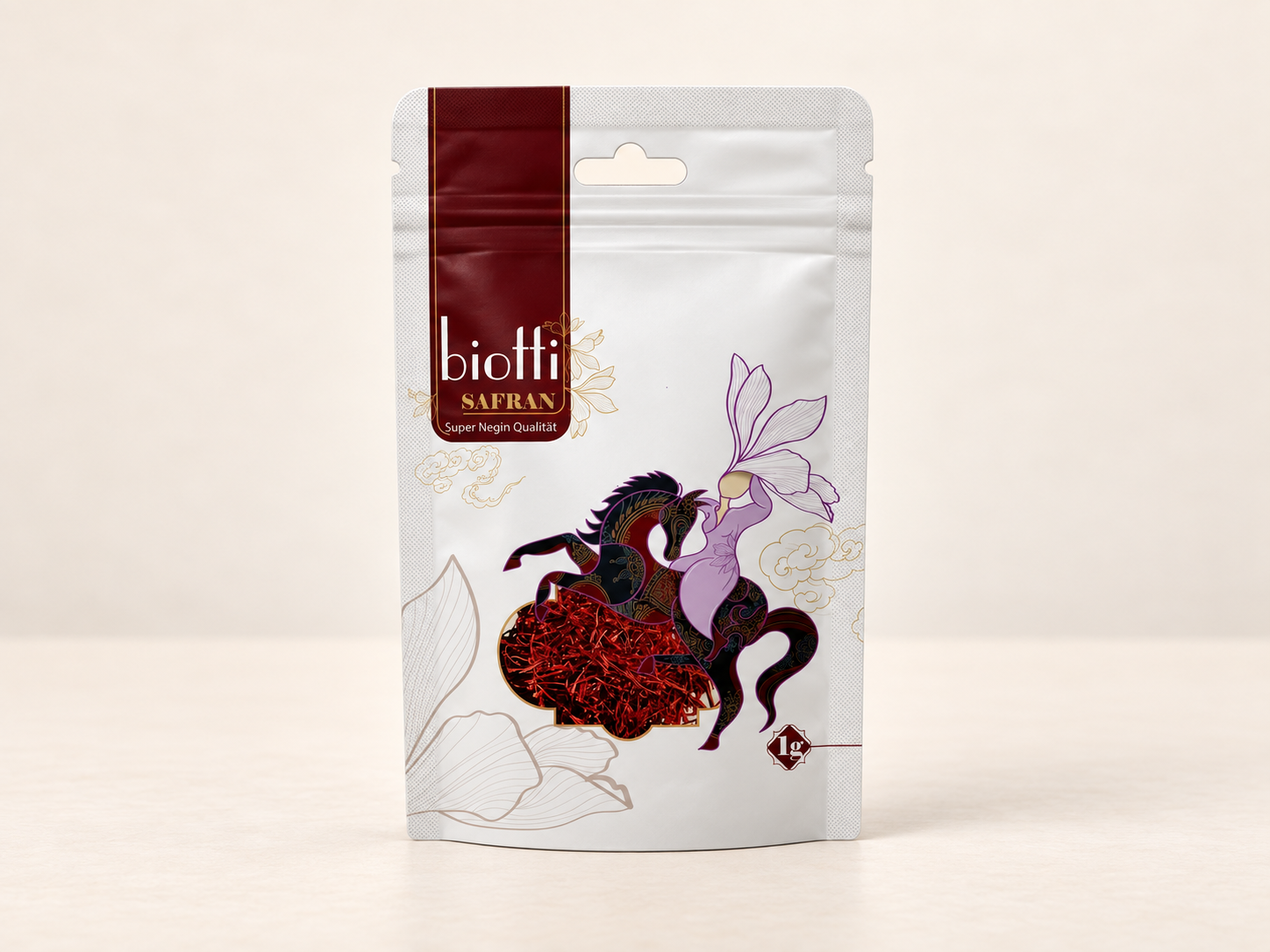
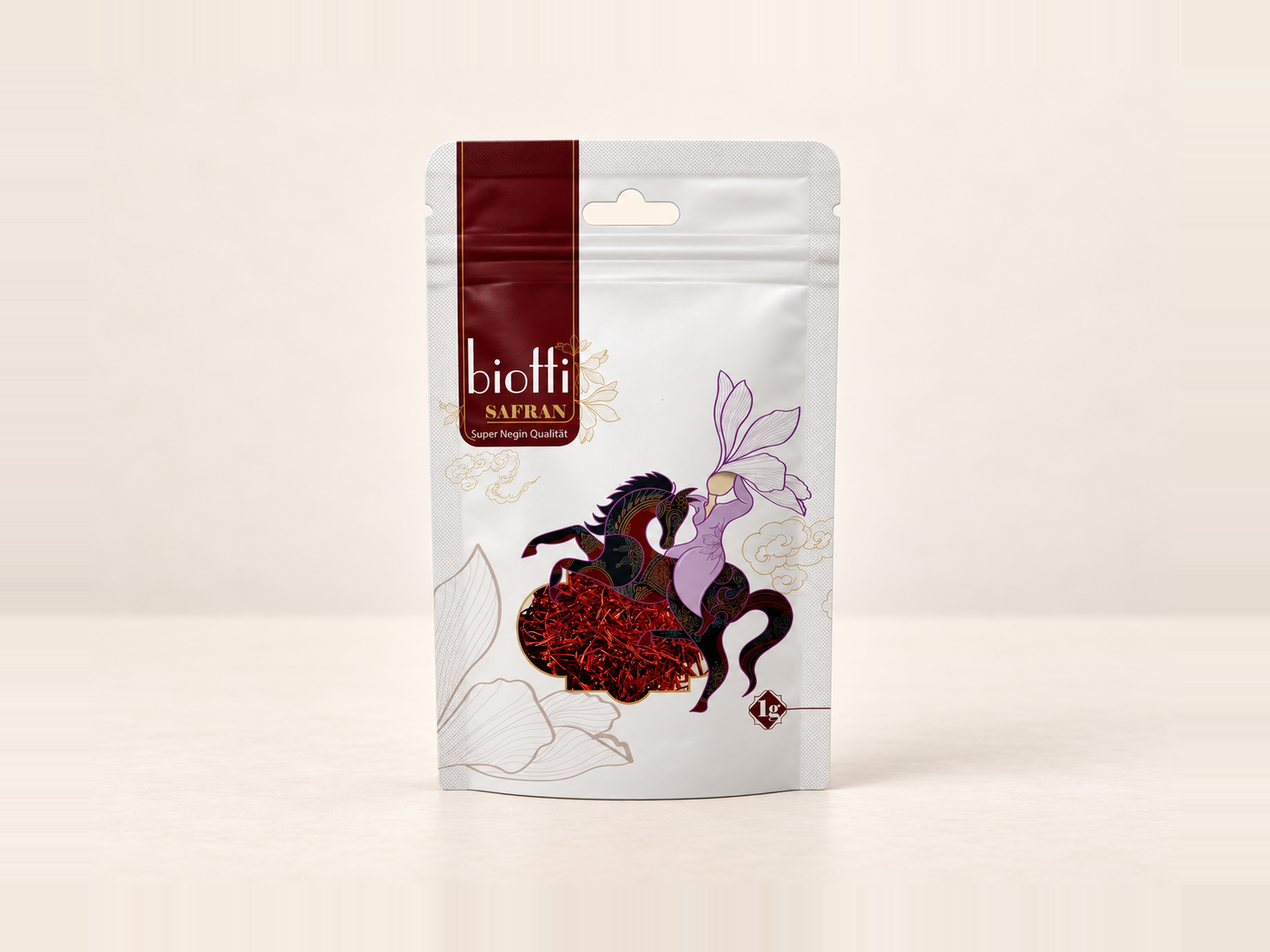
Reframe the saffron, drop the letterbox, swap the cart control for a note
The saffron front was composed at 80% of frame height against 68–69% for the
other three, so it read larger than the set. Rescaled to 69.2% and the studio
ground extended outward by replicating the edge rows — the backdrop is a
gradient, so a stretched edge is indistinguishable from more of it, where a
flood fill of one sampled colour would band against the vignette. The original
is in the previous commit.

That re-framing is what lets the frame go back to `cover`. `contain` had left
the 4:3 source letterboxed inside a wider frame, and those two vertical seams
read as another image showing at the sides. Cover crops ~6% off top and
bottom, which is now margin on every slide rather than margin on three and
product on one.

The price and the add control come out. In their place, one line top-right:
the smallest quantity the product is sold in — the thing a visitor needs
before the product page, without putting a cart on a slide that turns every
six seconds.

The pattern is now eleven stalks at arbitrary angles and scales in a large
tile, generated once from a fixed seed, at 2.2%. An even grid of an organic
shape reads as wallpaper; a scatter has no focus to find.

Changed region(s): [[0.3108, 0.0912, 0.8702, 0.9116]]

diff --git a/src/components/ui/GrainPattern.tsx b/src/components/ui/GrainPattern.tsx
@@ -1,37 +1,73 @@
+const STALK =
+  "M171.044 0C171.363 2.33899 171.098 4.563 170.927 6.91813C169.855 24.8062 171.965 35.1828 180.779 50.7146C181.516 46.2484 185.098 17.7292 186.516 15.5851L187.354 15.4824C189.024 18.3697 196.889 61.3654 198.264 68.0236C200.149 63.0528 200.741 60.6957 202.217 55.6879L202.65 55.5511C203.052 58.0265 199.749 83.8729 199.189 87.2504C201.777 86.4731 205.33 85.2916 207.909 84.8132C207.87 82.4405 207.581 79.9274 208.551 77.8212L209.126 77.3555C210.257 78.6195 209.863 83.8474 209.796 85.6025C209.634 89.842 209.014 93.4774 208 97.5461C207.039 101.398 204.228 107.485 204.374 111.191L204.304 110.475L204.764 111.302C205.801 109.657 207.491 106.258 208.801 105.327L208.929 105.548C207.502 108.763 204.976 125.245 204.044 129.735L210.955 129.766C211.185 128.923 211.599 127.209 211.94 126.502L212.462 126.523C213.213 125.642 212.749 125.906 213.899 125.709C211.3 143.025 205.67 151.306 197.133 165.637C206.871 167.294 208.606 166.507 214.252 158.614C211.887 173.469 208.304 184.362 201.676 197.979C199.17 203.125 196.073 208.157 193.693 213.377C202.494 210.729 202.517 208.766 206.484 201.002L206.984 201.78L208.312 199.543C208.908 200.713 208.006 200.671 208.685 202.326L208.592 202.722C206.696 210.567 203.244 219.259 200.765 226.999C199.303 231.566 195.38 239.453 195.225 243.722L195.784 244.239C198.289 243.309 202.292 234.4 204.527 231.49C200.599 243.426 196.855 255.294 192.397 267.063C191.549 269.303 190.741 271.839 190.17 274.158C194.385 271.842 202.462 267.543 206.947 266.179C209.413 262.591 210.458 258.153 212.815 254.843C212.478 259.98 203.328 281.449 200.899 287.406C198.408 293.514 191.058 304.528 187.333 310.441C192.404 310.502 197.476 310.526 202.548 310.513L204.049 309.642C200.672 329.284 195.012 340.75 186.284 358.105C190.738 357.384 195.893 356.991 200.587 356.291C201.768 354.773 203.677 350.972 205.656 351.053C205.49 355.208 193.84 374.105 191.51 378.877C187.474 387.143 180.417 398.716 177.406 407.344L180.23 413.385C176.64 432.188 163.553 463.221 151.922 478.809C148.548 483.556 140.29 487.748 137.926 493.009C123.318 525.511 108.577 559.283 95.1129 592.171C107.122 588.475 118.07 582.689 131.277 580.71C138.829 579.581 146.061 578.456 153.759 577.708C161.087 576.998 170.235 577.659 177.176 575.692C182.393 573.914 184.341 567.918 187.991 564.436C193.614 559.073 198.509 553.62 202.576 547.004C205.751 541.834 210.754 536.418 212.868 530.78C215.012 525.064 215.632 517.988 217.024 512.013C218.489 505.098 218.576 498.129 221.183 491.444C224.907 480.402 232.331 470.965 236.769 461.024C236.059 466.173 235.977 473.441 235.759 478.69C235.423 486.816 234.996 495.017 235.706 503.119C238.441 489.338 248.767 462.715 257.788 452.4C259.648 458.252 259.829 462.613 262.44 468.961C262.642 468.005 262.88 467.052 263.159 466.111C267.314 451.595 273.096 436.919 277.957 422.567C278.249 421.7 278.865 420.756 279.682 420.304L280.376 420.739C281.599 423.684 281.291 428.143 281.23 431.4C281.115 437.826 280.992 443.538 282.026 449.936C291.926 418.078 301.398 386.089 310.44 353.978C311.93 348.5 318.204 320.456 320.336 318.493L321.009 318.739C325.443 326.941 324.569 343.607 325.756 353.08C325.92 354.387 325.842 355.376 326.683 356.044C327.796 354.332 329.471 346.072 330.321 343.238L344.762 294.862C344.68 299.027 344.023 304.72 343.674 308.963C343.054 316.42 342.541 323.887 342.143 331.359C345.284 325.641 348.503 314.19 350.141 307.886C352.42 299.177 354.559 290.43 356.555 281.65C360.053 266.14 361.203 257.416 368.249 242.62C367.419 256.423 367.477 270.444 366.401 284.275C365.958 289.988 365.982 295.976 365.104 301.635C377.368 285.086 385.515 261.995 392.992 242.796C395.862 235.417 399.085 228.252 402.091 220.935C402.978 241.063 399.015 262.613 396.203 282.544C394.922 291.598 393.021 298.422 392.614 307.926C403.253 305.818 410.044 296.934 416.737 288.583L418.301 289.743C411.214 304.474 402.152 319.682 393.353 333.425C390.701 337.569 388.258 342.131 385.589 346.184C399.455 337.487 407.724 329.486 420.235 320.776C412.487 329.561 409.905 333.79 403.269 342.726L383.601 368.76C379.134 374.664 374.543 380.516 370.08 386.479C364.985 393.284 359.478 398.745 355.327 406.49C360.878 402.219 366.262 398.815 372.125 395.021C375.636 392.75 379.598 389.21 383.166 387.243C377.906 392.972 373.045 399.168 367.793 404.765C354.67 418.748 342.159 433.26 329.053 447.246C326.047 450.454 322.77 454.691 319.551 457.529C319.592 458.909 319.276 460.239 320.471 461.139C323.813 459.475 326.733 457.32 329.923 455.451C335.495 452.191 340.816 448.827 346.261 445.386L346.483 446.093C348.059 445.485 347.37 445.407 348.638 445.916C347.764 446.774 347.378 447.029 346.725 448.064L347.505 448.244C340.788 456.49 329.763 465.261 322.023 473.942C327.18 472.678 332.247 472.025 337.162 470.834C326.458 480.722 319.005 485.564 306.186 492.701C300.241 496.006 292.497 499.636 287.052 503.402C296.57 501.332 303.468 498.819 312.542 496.191C315.507 494.98 320.906 492.426 323.649 491.555C321.9 493.325 320.204 495.107 318.303 496.713C304.412 509.25 292.037 515.845 275.957 525.318C270.045 528.796 263.43 531.474 258.047 535.765C268.148 533.749 277.978 531.42 287.656 527.913C289.241 527.339 290.936 526.755 292.554 526.283C278.331 535.432 265.889 543.892 250.397 550.988C243.766 554.026 229.37 557.784 224.279 561.18C212.913 568.756 208.815 574.768 194.461 580.082C178.644 585.938 165.069 586.007 148.551 587.379C131.736 589.268 99.8854 594.725 89.4326 609.266C84.5222 616.099 77.5448 634.751 73.4885 643.411C65.1783 661.155 57.5554 679.298 48.9442 696.943C45.7148 703.558 43.0977 711.032 39.7783 717.627L40.2345 717.29C44.2486 714.264 47.3187 710.088 50.9336 706.922C56.7149 701.863 63.3092 696.175 69.4338 691.584C99.1479 669.327 132.653 654.77 168.627 646.076C175.507 644.413 184.932 642.097 191.85 641.641C197.302 640.586 202.506 639.588 207.996 638.771C204.45 640.685 197.699 642.816 193.693 644.142C190.878 645.793 186.3 647.296 183.192 648.573C175.312 651.809 167.344 654.881 159.657 658.572C130.515 672.637 105.69 691.847 81.1754 712.724C74.3791 718.514 65.3897 725.59 59.4388 732.094C67.3881 731.474 76.5364 729.782 84.4467 728.407L125.271 720.904C132.102 719.639 143.977 717.323 150.571 716.904C151.673 717.648 151.765 717.081 153.101 718.12C143.645 721.22 134.159 725.06 124.956 728.045C101.153 735.761 77.1125 743.966 56.7884 758.967C53.5323 761.369 49.685 763.603 46.6412 766.342C40.4152 771.947 34.2237 777.614 27.932 783.145C24.4156 786.217 21.3131 789.309 17.2699 791.695C14.0331 793.605 12.55 792.964 9.26228 793.038C-0.848007 793.26 0.84901 785.486 0.658079 777.589C0.475771 770.411 0.329186 763.233 0.219144 756.055C-0.410722 697.879 0.317282 639.699 2.40192 581.556C4.04762 541.025 6.87421 500.314 8.77859 459.775C9.16168 451.624 9.70246 393.432 13.1638 390.844L13.9612 391.062C14.7225 392.113 15.2719 398.959 15.7379 401C18.1945 411.771 19.4448 421.343 22.7888 431.888C21.4794 406.4 22.8709 380.276 22.5474 354.728C22.5034 351.262 22.395 347.904 22.4468 344.428C33.3458 388.397 40.4899 433.215 43.8018 478.394C45.6808 508.81 46.286 539.297 45.6155 569.766C45.2114 591.025 44.5019 615.488 42.5487 636.64C45.1983 632.747 48.2548 627.815 51.2079 624.259C58.2715 615.75 65.0481 608.568 70.785 599.054C75.8798 590.828 78.1579 581.4 82.1099 572.67C89.3521 556.667 97.0957 540.841 102.672 524.148C105.741 514.962 108.012 505.513 111.083 496.351C114.771 485.342 119.518 475.257 121.798 463.791C120.862 461.184 119.734 458.658 118.325 456.272C109.575 441.444 108.478 424.493 107.742 407.693L108.43 409.697C108.846 408.305 108.437 408.675 109.342 408.087C109.466 408.905 109.382 408.802 109.711 409.537L109.551 408.009L110.043 408.527L110.045 407.862C112.193 418.275 112.113 420.969 120.758 427.33C119.235 416.296 114.689 405.611 114.093 394.294C113.668 386.248 113.087 378.154 112.358 370.132L112.922 370.244L112.919 369.19L113.636 369.179L114.116 370.339L114.635 369.363C117.435 377.89 120.291 383.903 126.592 390.331C125.155 380.824 122.177 373.326 120.327 364.199C118.217 353.794 119.94 340.284 117.517 329.435C116.963 326.951 116.486 321.432 116.454 318.89L117.104 319.016L117.389 317.698C118.036 318.393 118.012 318.344 118.376 319.218L119.088 318.877C120.702 321.656 123.943 337.448 126.522 341.062C126.904 341.596 127.032 341.402 127.881 341.392C128.688 339.634 125.204 327.096 124.427 324.913C118.819 309.144 115.052 295.771 117.251 278.853C117.48 277.099 115.591 268.015 115.14 265.185C119.87 277.05 116.268 278.908 127.505 286.599C127.393 274.262 124.442 265.336 122.831 253.386C121.525 243.704 122.975 233.039 122.367 223.1L122.888 223.343L122.877 222.81L123.876 222.721L123.963 223.182L124.347 223.037C127.824 232.771 128.605 235.114 135.772 243.375C133.655 235.356 130.624 223.353 131.832 215.193C132.174 212.881 134.065 209.84 135.307 207.808C135.323 205.854 135.165 203.788 134.899 201.853C133.312 190.309 132.797 178.7 131.724 167.106C131.323 162.781 131.153 158.772 131.538 154.435C132.176 157.44 132.372 161.196 132.927 164.323C135.755 180.257 142.511 187.672 155.004 196.679C153.075 189.142 148.057 180.534 144.802 172.913C137.535 155.898 137.972 144.056 136.312 126.453L136.762 126.363L136.906 125.862L138.296 125.244L137.791 125.717L137.782 126.336L138.23 126.267L138.457 125.442C142.773 139.073 148.118 141.596 157.176 151.323C157.617 147.946 158.24 142.837 157.783 139.482C156.025 126.567 151.328 113.536 149.521 100.628C148.072 90.2756 147.822 80.2941 146.108 69.8974C147.241 70.2678 148.048 70.0752 148.743 69.1669C151.592 77.1699 154.886 81.1811 161.753 85.9364C163.612 76.2772 164.858 67.6109 164.961 57.7395C165.108 51.1995 164.419 44.6539 164.783 38.1172C165.364 27.6786 167.742 17.4229 169.575 7.1664C170.023 4.71498 170.425 2.41763 171.044 0Z";
+
 type GrainPatternProps = { className?: string };
 
 /**
- * The wheat stalk, tiled as a surface pattern.
+ * The wheat stalk, scattered as a surface texture.
  *
- * An SVG `<pattern>` rather than a repeated element: the tile is defined once
- * and the browser fills the area with it, so the density is a property of the
- * pattern's own box and does not change with the panel's size.
+ * An SVG `<pattern>` rather than repeated elements: the tile is defined once
+ * and the browser fills the area with it, so density is a property of the
+ * tile and does not change with the panel's size.
  *
- * Every other column is offset by half a tile and the stalks alternate scale,
- * because a strict grid of an organic shape reads as wallpaper. `currentColor`
- * so whatever places it sets the tone.
+ * The scatter inside the tile is deliberately irregular — eleven stalks at
+ * arbitrary angles, scales and positions, generated once from a fixed seed and
+ * written out here. An even grid of an organic shape reads as wallpaper; this
+ * reads as chaff. The tile is large relative to the stalks, so its own edges
+ * are hard to find in the repeat.
  *
- * Decorative: `aria-hidden`, and it carries no title.
+ * `currentColor`, so whatever places it sets the tone. Decorative:
+ * `aria-hidden`, and it carries no title.
  */
 export default function GrainPattern({ className }: GrainPatternProps) {
   return (
     <svg className={className} aria-hidden="true" focusable="false">
       <defs>
-        <pattern
-          id="grain-tile"
-          width="180"
-          height="260"
-          patternUnits="userSpaceOnUse"
-          patternTransform="rotate(-8)"
-        >
+        <pattern id="grain-tile" width="620" height="760" patternUnits="userSpaceOnUse">
           <g fill="currentColor">
             <path
-              d="M171.044 0C171.363 2.33899 171.098 4.563 170.927 6.91813C169.855 24.8062 171.965 35.1828 180.779 50.7146C181.516 46.2484 185.098 17.7292 186.516 15.5851L187.354 15.4824C189.024 18.3697 196.889 61.3654 198.264 68.0236C200.149 63.0528 200.741 60.6957 202.217 55.6879L202.65 55.5511C203.052 58.0265 199.749 83.8729 199.189 87.2504C201.777 86.4731 205.33 85.2916 207.909 84.8132C207.87 82.4405 207.581 79.9274 208.551 77.8212L209.126 77.3555C210.257 78.6195 209.863 83.8474 209.796 85.6025C209.634 89.842 209.014 93.4774 208 97.5461C207.039 101.398 204.228 107.485 204.374 111.191L204.304 110.475L204.764 111.302C205.801 109.657 207.491 106.258 208.801 105.327L208.929 105.548C207.502 108.763 204.976 125.245 204.044 129.735L210.955 129.766C211.185 128.923 211.599 127.209 211.94 126.502L212.462 126.523C213.213 125.642 212.749 125.906 213.899 125.709C211.3 143.025 205.67 151.306 197.133 165.637C206.871 167.294 208.606 166.507 214.252 158.614C211.887 173.469 208.304 184.362 201.676 197.979C199.17 203.125 196.073 208.157 193.693 213.377C202.494 210.729 202.517 208.766 206.484 201.002L206.984 201.78L208.312 199.543C208.908 200.713 208.006 200.671 208.685 202.326L208.592 202.722C206.696 210.567 203.244 219.259 200.765 226.999C199.303 231.566 195.38 239.453 195.225 243.722L195.784 244.239C198.289 243.309 202.292 234.4 204.527 231.49C200.599 243.426 196.855 255.294 192.397 267.063C191.549 269.303 190.741 271.839 190.17 274.158C194.385 271.842 202.462 267.543 206.947 266.179C209.413 262.591 210.458 258.153 212.815 254.843C212.478 259.98 203.328 281.449 200.899 287.406C198.408 293.514 191.058 304.528 187.333 310.441C192.404 310.502 197.476 310.526 202.548 310.513L204.049 309.642C200.672 329.284 195.012 340.75 186.284 358.105C190.738 357.384 195.893 356.991 200.587 356.291C201.768 354.773 203.677 350.972 205.656 351.053C205.49 355.208 193.84 374.105 191.51 378.877C187.474 387.143 180.417 398.716 177.406 407.344L180.23 413.385C176.64 432.188 163.553 463.221 151.922 478.809C148.548 483.556 140.29 487.748 137.926 493.009C123.318 525.511 108.577 559.283 95.1129 592.171C107.122 588.475 118.07 582.689 131.277 580.71C138.829 579.581 146.061 578.456 153.759 577.708C161.087 576.998 170.235 577.659 177.176 575.692C182.393 573.914 184.341 567.918 187.991 564.436C193.614 559.073 198.509 553.62 202.576 547.004C205.751 541.834 210.754 536.418 212.868 530.78C215.012 525.064 215.632 517.988 217.024 512.013C218.489 505.098 218.576 498.129 221.183 491.444C224.907 480.402 232.331 470.965 236.769 461.024C236.059 466.173 235.977 473.441 235.759 478.69C235.423 486.816 234.996 495.017 235.706 503.119C238.441 489.338 248.767 462.715 257.788 452.4C259.648 458.252 259.829 462.613 262.44 468.961C262.642 468.005 262.88 467.052 263.159 466.111C267.314 451.595 273.096 436.919 277.957 422.567C278.249 421.7 278.865 420.756 279.682 420.304L280.376 420.739C281.599 423.684 281.291 428.143 281.23 431.4C281.115 437.826 280.992 443.538 282.026 449.936C291.926 418.078 301.398 386.089 310.44 353.978C311.93 348.5 318.204 320.456 320.336 318.493L321.009 318.739C325.443 326.941 324.569 343.607 325.756 353.08C325.92 354.387 325.842 355.376 326.683 356.044C327.796 354.332 329.471 346.072 330.321 343.238L344.762 294.862C344.68 299.027 344.023 304.72 343.674 308.963C343.054 316.42 342.541 323.887 342.143 331.359C345.284 325.641 348.503 314.19 350.141 307.886C352.42 299.177 354.559 290.43 356.555 281.65C360.053 266.14 361.203 257.416 368.249 242.62C367.419 256.423 367.477 270.444 366.401 284.275C365.958 289.988 365.982 295.976 365.104 301.635C377.368 285.086 385.515 261.995 392.992 242.796C395.862 235.417 399.085 228.252 402.091 220.935C402.978 241.063 399.015 262.613 396.203 282.544C394.922 291.598 393.021 298.422 392.614 307.926C403.253 305.818 410.044 296.934 416.737 288.583L418.301 289.743C411.214 304.474 402.152 319.682 393.353 333.425C390.701 337.569 388.258 342.131 385.589 346.184C399.455 337.487 407.724 329.486 420.235 320.776C412.487 329.561 409.905 333.79 403.269 342.726L383.601 368.76C379.134 374.664 374.543 380.516 370.08 386.479C364.985 393.284 359.478 398.745 355.327 406.49C360.878 402.219 366.262 398.815 372.125 395.021C375.636 392.75 379.598 389.21 383.166 387.243C377.906 392.972 373.045 399.168 367.793 404.765C354.67 418.748 342.159 433.26 329.053 447.246C326.047 450.454 322.77 454.691 319.551 457.529C319.592 458.909 319.276 460.239 320.471 461.139C323.813 459.475 326.733 457.32 329.923 455.451C335.495 452.191 340.816 448.827 346.261 445.386L346.483 446.093C348.059 445.485 347.37 445.407 348.638 445.916C347.764 446.774 347.378 447.029 346.725 448.064L347.505 448.244C340.788 456.49 329.763 465.261 322.023 473.942C327.18 472.678 332.247 472.025 337.162 470.834C326.458 480.722 319.005 485.564 306.186 492.701C300.241 496.006 292.497 499.636 287.052 503.402C296.57 501.332 303.468 498.819 312.542 496.191C315.507 494.98 320.906 492.426 323.649 491.555C321.9 493.325 320.204 495.107 318.303 496.713C304.412 509.25 292.037 515.845 275.957 525.318C270.045 528.796 263.43 531.474 258.047 535.765C268.148 533.749 277.978 531.42 287.656 527.913C289.241 527.339 290.936 526.755 292.554 526.283C278.331 535.432 265.889 543.892 250.397 550.988C243.766 554.026 229.37 557.784 224.279 561.18C212.913 568.756 208.815 574.768 194.461 580.082C178.644 585.938 165.069 586.007 148.551 587.379C131.736 589.268 99.8854 594.725 89.4326 609.266C84.5222 616.099 77.5448 634.751 73.4885 643.411C65.1783 661.155 57.5554 679.298 48.9442 696.943C45.7148 703.558 43.0977 711.032 39.7783 717.627L40.2345 717.29C44.2486 714.264 47.3187 710.088 50.9336 706.922C56.7149 701.863 63.3092 696.175 69.4338 691.584C99.1479 669.327 132.653 654.77 168.627 646.076C175.507 644.413 184.932 642.097 191.85 641.641C197.302 640.586 202.506 639.588 207.996 638.771C204.45 640.685 197.699 642.816 193.693 644.142C190.878 645.793 186.3 647.296 183.192 648.573C175.312 651.809 167.344 654.881 159.657 658.572C130.515 672.637 105.69 691.847 81.1754 712.724C74.3791 718.514 65.3897 725.59 59.4388 732.094C67.3881 731.474 76.5364 729.782 84.4467 728.407L125.271 720.904C132.102 719.639 143.977 717.323 150.571 716.904C151.673 717.648 151.765 717.081 153.101 718.12C143.645 721.22 134.159 725.06 124.956 728.045C101.153 735.761 77.1125 743.966 56.7884 758.967C53.5323 761.369 49.685 763.603 46.6412 766.342C40.4152 771.947 34.2237 777.614 27.932 783.145C24.4156 786.217 21.3131 789.309 17.2699 791.695C14.0331 793.605 12.55 792.964 9.26228 793.038C-0.848007 793.26 0.84901 785.486 0.658079 777.589C0.475771 770.411 0.329186 763.233 0.219144 756.055C-0.410722 697.879 0.317282 639.699 2.40192 581.556C4.04762 541.025 6.87421 500.314 8.77859 459.775C9.16168 451.624 9.70246 393.432 13.1638 390.844L13.9612 391.062C14.7225 392.113 15.2719 398.959 15.7379 401C18.1945 411.771 19.4448 421.343 22.7888 431.888C21.4794 406.4 22.8709 380.276 22.5474 354.728C22.5034 351.262 22.395 347.904 22.4468 344.428C33.3458 388.397 40.4899 433.215 43.8018 478.394C45.6808 508.81 46.286 539.297 45.6155 569.766C45.2114 591.025 44.5019 615.488 42.5487 636.64C45.1983 632.747 48.2548 627.815 51.2079 624.259C58.2715 615.75 65.0481 608.568 70.785 599.054C75.8798 590.828 78.1579 581.4 82.1099 572.67C89.3521 556.667 97.0957 540.841 102.672 524.148C105.741 514.962 108.012 505.513 111.083 496.351C114.771 485.342 119.518 475.257 121.798 463.791C120.862 461.184 119.734 458.658 118.325 456.272C109.575 441.444 108.478 424.493 107.742 407.693L108.43 409.697C108.846 408.305 108.437 408.675 109.342 408.087C109.466 408.905 109.382 408.802 109.711 409.537L109.551 408.009L110.043 408.527L110.045 407.862C112.193 418.275 112.113 420.969 120.758 427.33C119.235 416.296 114.689 405.611 114.093 394.294C113.668 386.248 113.087 378.154 112.358 370.132L112.922 370.244L112.919 369.19L113.636 369.179L114.116 370.339L114.635 369.363C117.435 377.89 120.291 383.903 126.592 390.331C125.155 380.824 122.177 373.326 120.327 364.199C118.217 353.794 119.94 340.284 117.517 329.435C116.963 326.951 116.486 321.432 116.454 318.89L117.104 319.016L117.389 317.698C118.036 318.393 118.012 318.344 118.376 319.218L119.088 318.877C120.702 321.656 123.943 337.448 126.522 341.062C126.904 341.596 127.032 341.402 127.881 341.392C128.688 339.634 125.204 327.096 124.427 324.913C118.819 309.144 115.052 295.771 117.251 278.853C117.48 277.099 115.591 268.015 115.14 265.185C119.87 277.05 116.268 278.908 127.505 286.599C127.393 274.262 124.442 265.336 122.831 253.386C121.525 243.704 122.975 233.039 122.367 223.1L122.888 223.343L122.877 222.81L123.876 222.721L123.963 223.182L124.347 223.037C127.824 232.771 128.605 235.114 135.772 243.375C133.655 235.356 130.624 223.353 131.832 215.193C132.174 212.881 134.065 209.84 135.307 207.808C135.323 205.854 135.165 203.788 134.899 201.853C133.312 190.309 132.797 178.7 131.724 167.106C131.323 162.781 131.153 158.772 131.538 154.435C132.176 157.44 132.372 161.196 132.927 164.323C135.755 180.257 142.511 187.672 155.004 196.679C153.075 189.142 148.057 180.534 144.802 172.913C137.535 155.898 137.972 144.056 136.312 126.453L136.762 126.363L136.906 125.862L138.296 125.244L137.791 125.717L137.782 126.336L138.23 126.267L138.457 125.442C142.773 139.073 148.118 141.596 157.176 151.323C157.617 147.946 158.24 142.837 157.783 139.482C156.025 126.567 151.328 113.536 149.521 100.628C148.072 90.2756 147.822 80.2941 146.108 69.8974C147.241 70.2678 148.048 70.0752 148.743 69.1669C151.592 77.1699 154.886 81.1811 161.753 85.9364C163.612 76.2772 164.858 67.6109 164.961 57.7395C165.108 51.1995 164.419 44.6539 164.783 38.1172C165.364 27.6786 167.742 17.4229 169.575 7.1664C170.023 4.71498 170.425 2.41763 171.044 0Z"
-              transform="translate(18 26) scale(0.18)"
+              d={STALK}
+              transform="translate(284 421) rotate(153) scale(0.107) translate(-210 -397)"
             />
             <path
-              d="M171.044 0C171.363 2.33899 171.098 4.563 170.927 6.91813C169.855 24.8062 171.965 35.1828 180.779 50.7146C181.516 46.2484 185.098 17.7292 186.516 15.5851L187.354 15.4824C189.024 18.3697 196.889 61.3654 198.264 68.0236C200.149 63.0528 200.741 60.6957 202.217 55.6879L202.65 55.5511C203.052 58.0265 199.749 83.8729 199.189 87.2504C201.777 86.4731 205.33 85.2916 207.909 84.8132C207.87 82.4405 207.581 79.9274 208.551 77.8212L209.126 77.3555C210.257 78.6195 209.863 83.8474 209.796 85.6025C209.634 89.842 209.014 93.4774 208 97.5461C207.039 101.398 204.228 107.485 204.374 111.191L204.304 110.475L204.764 111.302C205.801 109.657 207.491 106.258 208.801 105.327L208.929 105.548C207.502 108.763 204.976 125.245 204.044 129.735L210.955 129.766C211.185 128.923 211.599 127.209 211.94 126.502L212.462 126.523C213.213 125.642 212.749 125.906 213.899 125.709C211.3 143.025 205.67 151.306 197.133 165.637C206.871 167.294 208.606 166.507 214.252 158.614C211.887 173.469 208.304 184.362 201.676 197.979C199.17 203.125 196.073 208.157 193.693 213.377C202.494 210.729 202.517 208.766 206.484 201.002L206.984 201.78L208.312 199.543C208.908 200.713 208.006 200.671 208.685 202.326L208.592 202.722C206.696 210.567 203.244 219.259 200.765 226.999C199.303 231.566 195.38 239.453 195.225 243.722L195.784 244.239C198.289 243.309 202.292 234.4 204.527 231.49C200.599 243.426 196.855 255.294 192.397 267.063C191.549 269.303 190.741 271.839 190.17 274.158C194.385 271.842 202.462 267.543 206.947 266.179C209.413 262.591 210.458 258.153 212.815 254.843C212.478 259.98 203.328 281.449 200.899 287.406C198.408 293.514 191.058 304.528 187.333 310.441C192.404 310.502 197.476 310.526 202.548 310.513L204.049 309.642C200.672 329.284 195.012 340.75 186.284 358.105C190.738 357.384 195.893 356.991 200.587 356.291C201.768 354.773 203.677 350.972 205.656 351.053C205.49 355.208 193.84 374.105 191.51 378.877C187.474 387.143 180.417 398.716 177.406 407.344L180.23 413.385C176.64 432.188 163.553 463.221 151.922 478.809C148.548 483.556 140.29 487.748 137.926 493.009C123.318 525.511 108.577 559.283 95.1129 592.171C107.122 588.475 118.07 582.689 131.277 580.71C138.829 579.581 146.061 578.456 153.759 577.708C161.087 576.998 170.235 577.659 177.176 575.692C182.393 573.914 184.341 567.918 187.991 564.436C193.614 559.073 198.509 553.62 202.576 547.004C205.751 541.834 210.754 536.418 212.868 530.78C215.012 525.064 215.632 517.988 217.024 512.013C218.489 505.098 218.576 498.129 221.183 491.444C224.907 480.402 232.331 470.965 236.769 461.024C236.059 466.173 235.977 473.441 235.759 478.69C235.423 486.816 234.996 495.017 235.706 503.119C238.441 489.338 248.767 462.715 257.788 452.4C259.648 458.252 259.829 462.613 262.44 468.961C262.642 468.005 262.88 467.052 263.159 466.111C267.314 451.595 273.096 436.919 277.957 422.567C278.249 421.7 278.865 420.756 279.682 420.304L280.376 420.739C281.599 423.684 281.291 428.143 281.23 431.4C281.115 437.826 280.992 443.538 282.026 449.936C291.926 418.078 301.398 386.089 310.44 353.978C311.93 348.5 318.204 320.456 320.336 318.493L321.009 318.739C325.443 326.941 324.569 343.607 325.756 353.08C325.92 354.387 325.842 355.376 326.683 356.044C327.796 354.332 329.471 346.072 330.321 343.238L344.762 294.862C344.68 299.027 344.023 304.72 343.674 308.963C343.054 316.42 342.541 323.887 342.143 331.359C345.284 325.641 348.503 314.19 350.141 307.886C352.42 299.177 354.559 290.43 356.555 281.65C360.053 266.14 361.203 257.416 368.249 242.62C367.419 256.423 367.477 270.444 366.401 284.275C365.958 289.988 365.982 295.976 365.104 301.635C377.368 285.086 385.515 261.995 392.992 242.796C395.862 235.417 399.085 228.252 402.091 220.935C402.978 241.063 399.015 262.613 396.203 282.544C394.922 291.598 393.021 298.422 392.614 307.926C403.253 305.818 410.044 296.934 416.737 288.583L418.301 289.743C411.214 304.474 402.152 319.682 393.353 333.425C390.701 337.569 388.258 342.131 385.589 346.184C399.455 337.487 407.724 329.486 420.235 320.776C412.487 329.561 409.905 333.79 403.269 342.726L383.601 368.76C379.134 374.664 374.543 380.516 370.08 386.479C364.985 393.284 359.478 398.745 355.327 406.49C360.878 402.219 366.262 398.815 372.125 395.021C375.636 392.75 379.598 389.21 383.166 387.243C377.906 392.972 373.045 399.168 367.793 404.765C354.67 418.748 342.159 433.26 329.053 447.246C326.047 450.454 322.77 454.691 319.551 457.529C319.592 458.909 319.276 460.239 320.471 461.139C323.813 459.475 326.733 457.32 329.923 455.451C335.495 452.191 340.816 448.827 346.261 445.386L346.483 446.093C348.059 445.485 347.37 445.407 348.638 445.916C347.764 446.774 347.378 447.029 346.725 448.064L347.505 448.244C340.788 456.49 329.763 465.261 322.023 473.942C327.18 472.678 332.247 472.025 337.162 470.834C326.458 480.722 319.005 485.564 306.186 492.701C300.241 496.006 292.497 499.636 287.052 503.402C296.57 501.332 303.468 498.819 312.542 496.191C315.507 494.98 320.906 492.426 323.649 491.555C321.9 493.325 320.204 495.107 318.303 496.713C304.412 509.25 292.037 515.845 275.957 525.318C270.045 528.796 263.43 531.474 258.047 535.765C268.148 533.749 277.978 531.42 287.656 527.913C289.241 527.339 290.936 526.755 292.554 526.283C278.331 535.432 265.889 543.892 250.397 550.988C243.766 554.026 229.37 557.784 224.279 561.18C212.913 568.756 208.815 574.768 194.461 580.082C178.644 585.938 165.069 586.007 148.551 587.379C131.736 589.268 99.8854 594.725 89.4326 609.266C84.5222 616.099 77.5448 634.751 73.4885 643.411C65.1783 661.155 57.5554 679.298 48.9442 696.943C45.7148 703.558 43.0977 711.032 39.7783 717.627L40.2345 717.29C44.2486 714.264 47.3187 710.088 50.9336 706.922C56.7149 701.863 63.3092 696.175 69.4338 691.584C99.1479 669.327 132.653 654.77 168.627 646.076C175.507 644.413 184.932 642.097 191.85 641.641C197.302 640.586 202.506 639.588 207.996 638.771C204.45 640.685 197.699 642.816 193.693 644.142C190.878 645.793 186.3 647.296 183.192 648.573C175.312 651.809 167.344 654.881 159.657 658.572C130.515 672.637 105.69 691.847 81.1754 712.724C74.3791 718.514 65.3897 725.59 59.4388 732.094C67.3881 731.474 76.5364 729.782 84.4467 728.407L125.271 720.904C132.102 719.639 143.977 717.323 150.571 716.904C151.673 717.648 151.765 717.081 153.101 718.12C143.645 721.22 134.159 725.06 124.956 728.045C101.153 735.761 77.1125 743.966 56.7884 758.967C53.5323 761.369 49.685 763.603 46.6412 766.342C40.4152 771.947 34.2237 777.614 27.932 783.145C24.4156 786.217 21.3131 789.309 17.2699 791.695C14.0331 793.605 12.55 792.964 9.26228 793.038C-0.848007 793.26 0.84901 785.486 0.658079 777.589C0.475771 770.411 0.329186 763.233 0.219144 756.055C-0.410722 697.879 0.317282 639.699 2.40192 581.556C4.04762 541.025 6.87421 500.314 8.77859 459.775C9.16168 451.624 9.70246 393.432 13.1638 390.844L13.9612 391.062C14.7225 392.113 15.2719 398.959 15.7379 401C18.1945 411.771 19.4448 421.343 22.7888 431.888C21.4794 406.4 22.8709 380.276 22.5474 354.728C22.5034 351.262 22.395 347.904 22.4468 344.428C33.3458 388.397 40.4899 433.215 43.8018 478.394C45.6808 508.81 46.286 539.297 45.6155 569.766C45.2114 591.025 44.5019 615.488 42.5487 636.64C45.1983 632.747 48.2548 627.815 51.2079 624.259C58.2715 615.75 65.0481 608.568 70.785 599.054C75.8798 590.828 78.1579 581.4 82.1099 572.67C89.3521 556.667 97.0957 540.841 102.672 524.148C105.741 514.962 108.012 505.513 111.083 496.351C114.771 485.342 119.518 475.257 121.798 463.791C120.862 461.184 119.734 458.658 118.325 456.272C109.575 441.444 108.478 424.493 107.742 407.693L108.43 409.697C108.846 408.305 108.437 408.675 109.342 408.087C109.466 408.905 109.382 408.802 109.711 409.537L109.551 408.009L110.043 408.527L110.045 407.862C112.193 418.275 112.113 420.969 120.758 427.33C119.235 416.296 114.689 405.611 114.093 394.294C113.668 386.248 113.087 378.154 112.358 370.132L112.922 370.244L112.919 369.19L113.636 369.179L114.116 370.339L114.635 369.363C117.435 377.89 120.291 383.903 126.592 390.331C125.155 380.824 122.177 373.326 120.327 364.199C118.217 353.794 119.94 340.284 117.517 329.435C116.963 326.951 116.486 321.432 116.454 318.89L117.104 319.016L117.389 317.698C118.036 318.393 118.012 318.344 118.376 319.218L119.088 318.877C120.702 321.656 123.943 337.448 126.522 341.062C126.904 341.596 127.032 341.402 127.881 341.392C128.688 339.634 125.204 327.096 124.427 324.913C118.819 309.144 115.052 295.771 117.251 278.853C117.48 277.099 115.591 268.015 115.14 265.185C119.87 277.05 116.268 278.908 127.505 286.599C127.393 274.262 124.442 265.336 122.831 253.386C121.525 243.704 122.975 233.039 122.367 223.1L122.888 223.343L122.877 222.81L123.876 222.721L123.963 223.182L124.347 223.037C127.824 232.771 128.605 235.114 135.772 243.375C133.655 235.356 130.624 223.353 131.832 215.193C132.174 212.881 134.065 209.84 135.307 207.808C135.323 205.854 135.165 203.788 134.899 201.853C133.312 190.309 132.797 178.7 131.724 167.106C131.323 162.781 131.153 158.772 131.538 154.435C132.176 157.44 132.372 161.196 132.927 164.323C135.755 180.257 142.511 187.672 155.004 196.679C153.075 189.142 148.057 180.534 144.802 172.913C137.535 155.898 137.972 144.056 136.312 126.453L136.762 126.363L136.906 125.862L138.296 125.244L137.791 125.717L137.782 126.336L138.23 126.267L138.457 125.442C142.773 139.073 148.118 141.596 157.176 151.323C157.617 147.946 158.24 142.837 157.783 139.482C156.025 126.567 151.328 113.536 149.521 100.628C148.072 90.2756 147.822 80.2941 146.108 69.8974C147.241 70.2678 148.048 70.0752 148.743 69.1669C151.592 77.1699 154.886 81.1811 161.753 85.9364C163.612 76.2772 164.858 67.6109 164.961 57.7395C165.108 51.1995 164.419 44.6539 164.783 38.1172C165.364 27.6786 167.742 17.4229 169.575 7.1664C170.023 4.71498 170.425 2.41763 171.044 0Z"
-              transform="translate(112 148) scale(0.13)"
+              d={STALK}
+              transform="translate(314 439) rotate(-114) scale(0.111) translate(-210 -397)"
+            />
+            <path
+              d={STALK}
+              transform="translate(380 579) rotate(-146) scale(0.094) translate(-210 -397)"
+            />
+            <path
+              d={STALK}
+              transform="translate(89 591) rotate(70) scale(0.073) translate(-210 -397)"
+            />
+            <path
+              d={STALK}
+              transform="translate(570 696) rotate(55) scale(0.119) translate(-210 -397)"
+            />
+            <path
+              d={STALK}
+              transform="translate(125 50) rotate(10) scale(0.075) translate(-210 -397)"
+            />
+            <path
+              d={STALK}
+              transform="translate(143 205) rotate(-169) scale(0.107) translate(-210 -397)"
+            />
+            <path
+              d={STALK}
+              transform="translate(278 613) rotate(7) scale(0.121) translate(-210 -397)"
+            />
+            <path
+              d={STALK}
+              transform="translate(310 490) rotate(-15) scale(0.092) translate(-210 -397)"
+            />
+            <path
+              d={STALK}
+              transform="translate(579 717) rotate(122) scale(0.127) translate(-210 -397)"
+            />
+            <path
+              d={STALK}
+              transform="translate(210 196) rotate(-76) scale(0.076) translate(-210 -397)"
             />
           </g>
         </pattern>

diff --git a/src/sections/Hero/heroSlider.css b/src/sections/Hero/heroSlider.css
@@ -35,27 +35,37 @@
 }
 
 .hero-slider__img {
-  /* CONTAIN. The frame is wider than the source's 4:3, so `cover` had to crop
-     roughly 6% off the top and bottom of every shot — never into the product,
-     but it ate the studio margin the images were composed with and made each
-     pack read tighter than it was photographed. Measured across the four
-     fronts, the products occupy 69% of frame height (the saffron 80%), and
-     that framing is the point of the set.
+  /* COVER, so the frame is filled edge to edge. `contain` left the source's
+     4:3 letterboxed inside a wider frame, and those two vertical seams read as
+     another image showing through at the sides — the studio backdrop is a
+     gradient, so a flat fill beside it never quite matches.
 
-     The side gaps this leaves are filled by the stage's own ground, which is
-     sampled from the artwork. */
-  object-fit: contain;
+     Cover crops about 6% off the top and bottom instead. That is margin, not
+     product: all four fronts now sit at ~69% of frame height (the saffron was
+     re-framed from 80% to match), so there is room to lose. */
+  object-fit: cover;
   /* The image travels inside its own clip, so it must not be the thing that
      gets clipped by the stage as well. */
   will-change: transform;
 }
 
-/* The purchase control, opposite the rail so the two never collide. */
-.hero-slider__buy {
+/* The availability note. Its own surface, because it sits on a photograph
+   whose brightness we do not control. */
+.hero-slider__note {
   position: absolute;
-  inset-block-end: clamp(0.75rem, 0.5rem + 1vw, 1.5rem);
-  inset-inline-start: clamp(0.75rem, 0.5rem + 1vw, 1.5rem);
+  inset-block-start: clamp(0.75rem, 0.5rem + 1vw, 1.5rem);
+  inset-inline-end: clamp(0.75rem, 0.5rem + 1vw, 1.5rem);
   z-index: var(--z-base);
+  padding: 0.45rem 0.85rem;
+  border-radius: var(--radius-full);
+  background-color: var(--color-paper-50);
+  color: var(--color-fg-heading);
+  font-size: var(--text-eyebrow);
+  font-weight: var(--font-weight-semibold);
+  letter-spacing: var(--tracking-wide);
+  line-height: 1.1;
+  white-space: nowrap;
+  box-shadow: var(--shadow-sm);
 }
 
 /* -- The rail ------------------------------------------------------------- */

diff --git a/src/sections/Hero/HeroSlider.tsx b/src/sections/Hero/HeroSlider.tsx
@@ -2,7 +2,7 @@
 
 import Image from "next/image";
 import { useCallback, useEffect, useRef, useState } from "react";
-import AddToCart from "./AddToCart";
+import { useTranslations } from "next-intl";
 import { useScrollWake } from "@/components/providers/SmoothScroll";
 import "./heroSlider.css";
 
@@ -11,9 +11,7 @@ import "./heroSlider.css";
 export type Slide = {
   src: string;
   alt: string;
-  /** Resolved product name, price and unit for the purchase control. */
-  name: string;
-  priceFrom: string;
+  /** The smallest unit this product is sold in, already resolved. */
   fromUnit: string;
 };
 
@@ -52,6 +50,7 @@ export default function HeroSlider({
   playLabel,
   interval = 6000,
 }: HeroSliderProps) {
+  const t = useTranslations("cart");
   const [index, setIndex] = useState(0);
   const [playing, setPlaying] = useState(true);
 
@@ -162,16 +161,10 @@ export default function HeroSlider({
         ))}
       </div>
 
-      {/* Keyed on the index so the stepper resets to 1 when the slide turns —
-          a quantity chosen for one product must not carry to the next. */}
-      <div className="hero-slider__buy">
-        <AddToCart
-          key={index}
-          productName={slides[index]!.name}
-          priceFrom={slides[index]!.priceFrom}
-          fromUnit={slides[index]!.fromUnit}
-        />
-      </div>
+      {/* The one thing a visitor needs before the product page: the smallest
+          quantity they can buy. Top-right, clear of the rail below and of the
+          brand plate that overhangs the top-centre. */}
+      <p className="hero-slider__note">{t("soldFrom", { unit: slides[index]!.fromUnit })}</p>
 
       <div className="hero-slider__rail">
         <ul className="hero-slider__thumbs">

diff --git a/src/sections/Hero/Hero.tsx b/src/sections/Hero/Hero.tsx
@@ -1,4 +1,4 @@
-import { useLocale, useTranslations } from "next-intl";
+import { useTranslations } from "next-intl";
 import Heading from "@/components/ui/Heading";
 import Button from "@/components/ui/Button";
 import GrainPattern from "@/components/ui/GrainPattern";
@@ -40,23 +40,17 @@ export default function Hero() {
   const t = useTranslations("hero");
   const tp = useTranslations("products");
   const tu = useTranslations("units");
-  const locale = useLocale();
 
   /* ONE FRONT VIEW PER PRODUCT. A pack photographed against its own ground
      reads at a glance and survives being shrunk into a thumbnail; a lifestyle
      frame does neither, and the same picture has to serve as both the preview
      and the view. Front only — the other angles belong on a product page.
 
-     Names, prices and units are resolved HERE rather than in the slider:
-     message keys are typed against the catalogue and cannot travel as loose
-     strings, and currency formatting needs the active locale. */
-  const money = new Intl.NumberFormat(locale, { style: "currency", currency: "EUR" });
-
+     Labels are resolved HERE rather than in the slider: message keys are
+     typed against the catalogue and cannot travel as loose strings. */
   const slides: Slide[] = HERO_PRODUCTS.map((product) => ({
     src: `/products/${product.slug}/front.png`,
     alt: tp(product.slug),
-    name: tp(product.slug),
-    priceFrom: money.format(product.priceFrom / 100),
     fromUnit: tu(product.fromUnit),
   }));
 

diff --git a/src/sections/Hero/hero.css b/src/sections/Hero/hero.css
@@ -44,13 +44,12 @@
   color: var(--color-paper-50);
 }
 
-/* THE PATTERN. Covers the whole panel and is fixed at 3.5% — low enough that
-   it registers as a texture in the surface rather than as a drawing on it,
-   including where it passes behind the call to action.
+/* THE PATTERN. Covers the whole panel at 2.2% — below the point where any
+   single stalk can be picked out, which is what lets it sit under the
+   headline and the call to action without competing with either.
 
-   It began as one large stalk in the corner, which at any visible weight
-   became the second thing the eye found after the headline. A tile has no
-   single focus, so it can sit under everything without competing. */
+   It began as one large stalk in the corner; at any weight that made it the
+   second thing the eye found. A scatter has no focus to find. */
 .hero__pattern {
   position: absolute;
   inset: 0;
@@ -58,7 +57,7 @@
   inline-size: 100%;
   block-size: 100%;
   color: var(--color-paper-50);
-  opacity: 0.035;
+  opacity: 0.022;
   pointer-events: none;
 }
 
